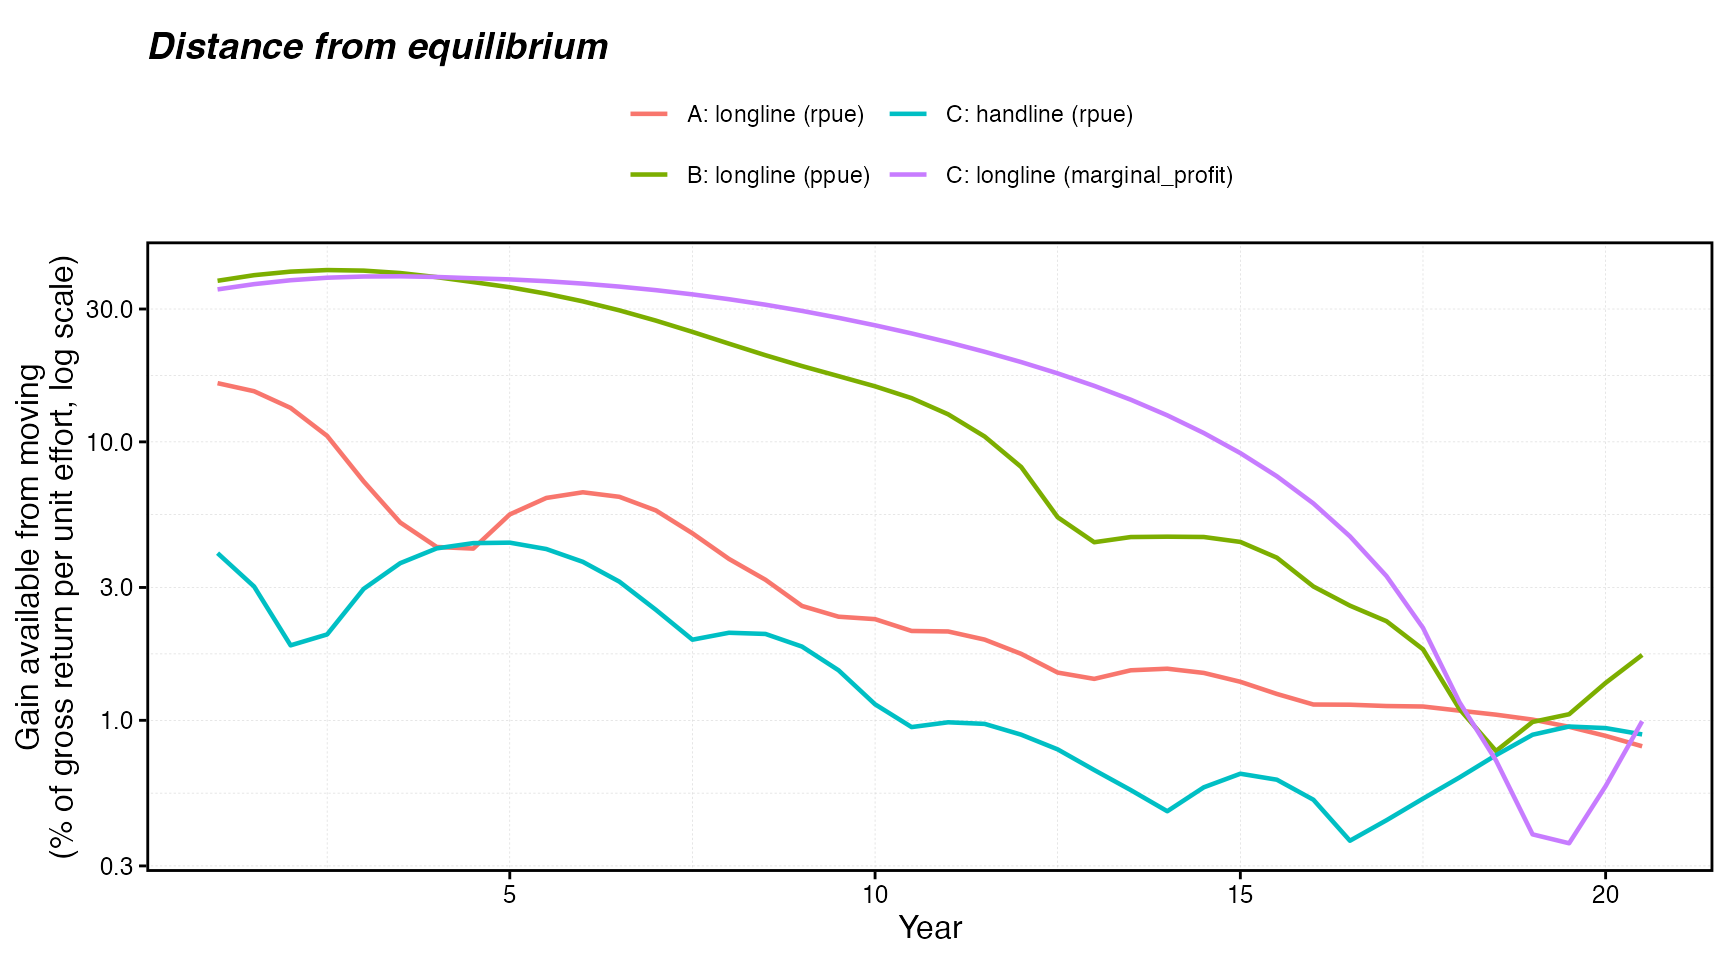
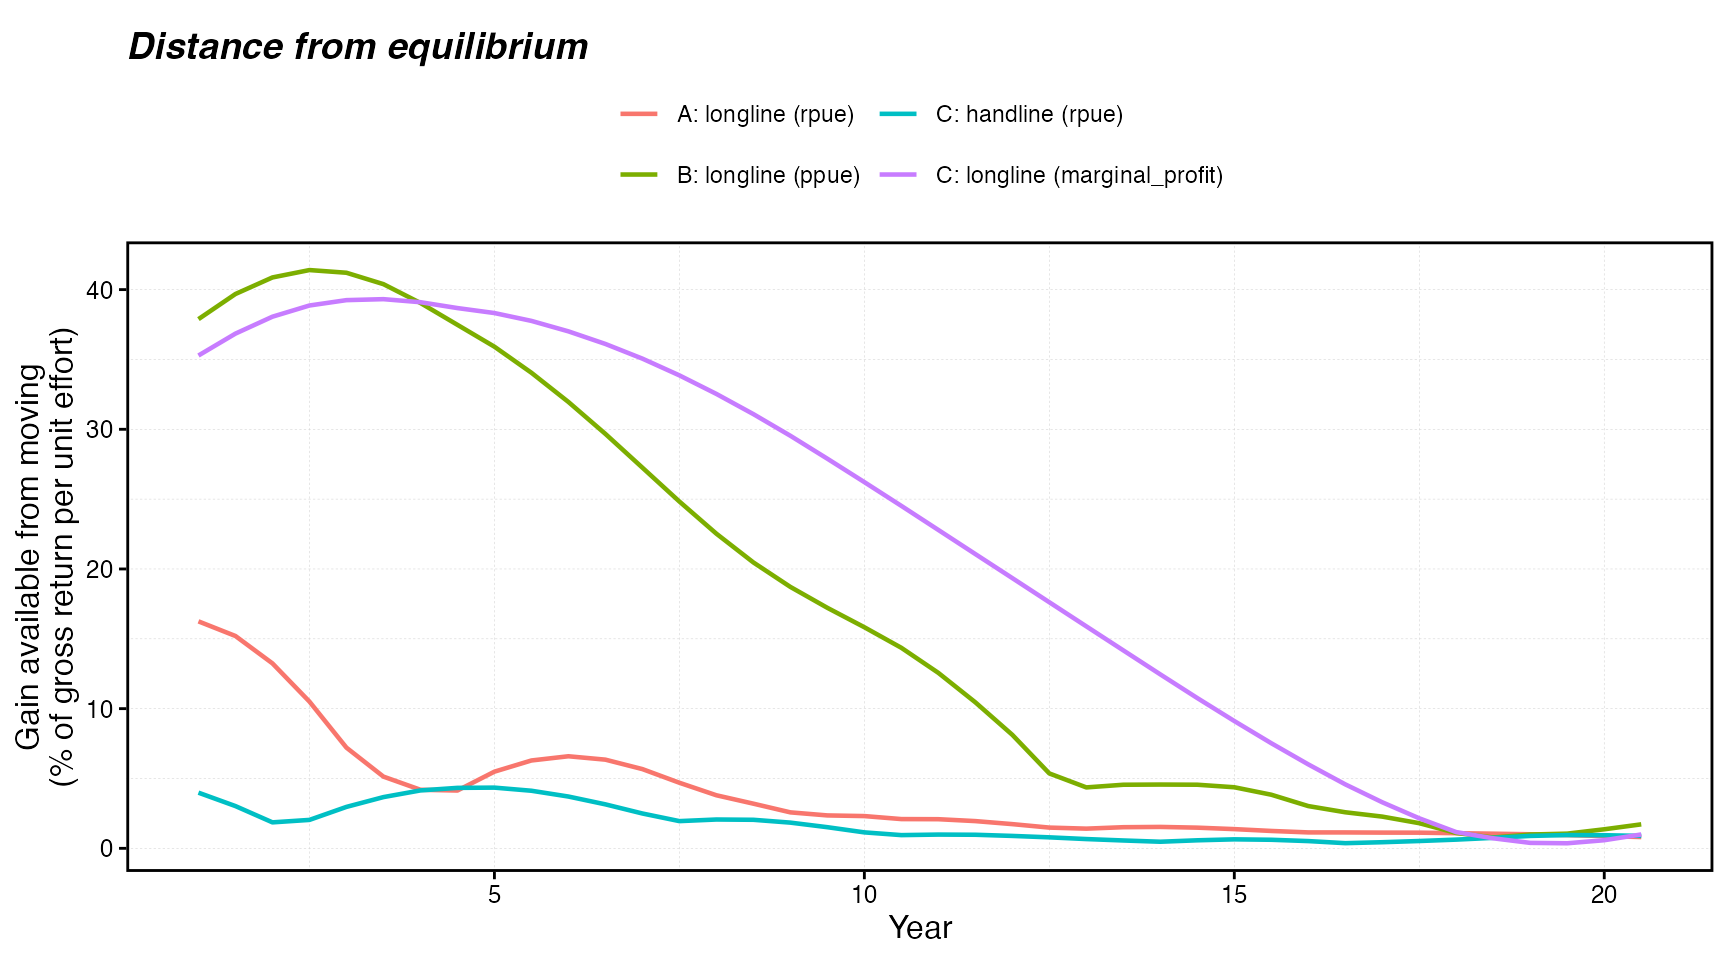
fixing log axis

diff --git a/docs/articles/spatial-allocation.html b/docs/articles/spatial-allocation.html
@@ -1353,12 +1353,12 @@ included, so both players of a two-fleet game are shown.</p>
 <span></span>
 <span><span class="fu"><a href="https://ggplot2.tidyverse.org/reference/ggplot.html" class="external-link">ggplot</a></span><span class="op">(</span><span class="va">gap_paths</span>, <span class="fu"><a href="https://ggplot2.tidyverse.org/reference/aes.html" class="external-link">aes</a></span><span class="op">(</span><span class="va">year</span>, <span class="fl">100</span> <span class="op">*</span> <span class="va">gap</span>, color <span class="op">=</span> <span class="va">fleet</span><span class="op">)</span><span class="op">)</span> <span class="op">+</span></span>
 <span>  <span class="fu"><a href="https://ggplot2.tidyverse.org/reference/geom_path.html" class="external-link">geom_line</a></span><span class="op">(</span>linewidth <span class="op">=</span> <span class="fl">0.8</span><span class="op">)</span> <span class="op">+</span></span>
-<span>  <span class="fu"><a href="https://ggplot2.tidyverse.org/reference/scale_continuous.html" class="external-link">scale_y_log10</a></span><span class="op">(</span><span class="op">)</span> <span class="op">+</span></span>
+<span>  <span class="fu"><a href="https://ggplot2.tidyverse.org/reference/scale_continuous.html" class="external-link">scale_y_continuous</a></span><span class="op">(</span><span class="op">)</span> <span class="op">+</span></span>
 <span>  <span class="fu"><a href="https://ggplot2.tidyverse.org/reference/guides.html" class="external-link">guides</a></span><span class="op">(</span>color <span class="op">=</span> <span class="fu"><a href="https://ggplot2.tidyverse.org/reference/guide_legend.html" class="external-link">guide_legend</a></span><span class="op">(</span>ncol <span class="op">=</span> <span class="fl">2</span><span class="op">)</span><span class="op">)</span> <span class="op">+</span></span>
 <span>  <span class="fu"><a href="https://ggplot2.tidyverse.org/reference/labs.html" class="external-link">labs</a></span><span class="op">(</span></span>
 <span>    title <span class="op">=</span> <span class="st">"Distance from equilibrium"</span>,</span>
 <span>    x <span class="op">=</span> <span class="st">"Year"</span>,</span>
-<span>    y <span class="op">=</span> <span class="st">"Gain available from moving\n(% of gross return per unit effort, log scale)"</span>,</span>
+<span>    y <span class="op">=</span> <span class="st">"Gain available from moving\n(% of gross return per unit effort)"</span>,</span>
 <span>    color <span class="op">=</span> <span class="cn">NULL</span></span>
 <span>  <span class="op">)</span></span></code></pre></div>
 <p><img src="spatial-allocation_files/figure-html/nash-gap-1.png" class="r-plt" alt="" width="864"></p>
@@ -1419,38 +1419,38 @@ year adjusts for the different run lengths.</caption>
 <tbody>
 <tr class="odd">
 <td align="left">A: rpue / revenue</td>
-<td align="right">0.12</td>
+<td align="right">0.11</td>
 <td align="right">20</td>
-<td align="right">6.2</td>
-<td align="right">1.2</td>
+<td align="right">5.4</td>
+<td align="right">1.1</td>
 </tr>
 <tr class="even">
 <td align="left">B: ppue / profit</td>
 <td align="right">0.10</td>
 <td align="right">20</td>
-<td align="right">5.0</td>
+<td align="right">4.8</td>
 <td align="right">1.0</td>
 </tr>
 <tr class="odd">
 <td align="left">C: marginal_profit / rpue</td>
 <td align="right">0.30</td>
 <td align="right">20</td>
-<td align="right">15.2</td>
+<td align="right">14.8</td>
 <td align="right">3.0</td>
 </tr>
 <tr class="even">
 <td align="left">Scenario 1: open_access (ppue)</td>
 <td align="right">0.25</td>
 <td align="right">50</td>
-<td align="right">5.1</td>
+<td align="right">5.0</td>
 <td align="right">1.0</td>
 </tr>
 <tr class="odd">
 <td align="left">Scenario 1: sole_owner (ppue)</td>
 <td align="right">0.81</td>
 <td align="right">50</td>
-<td align="right">16.1</td>
-<td align="right">3.2</td>
+<td align="right">16.3</td>
+<td align="right">3.4</td>
 </tr>
 </tbody>
 </table>
